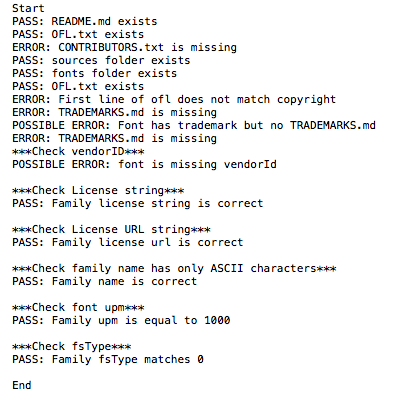
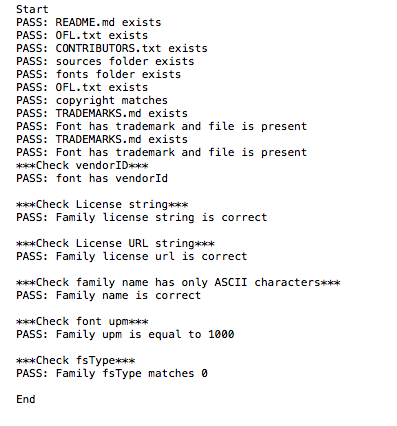
UpgradingExistingRepositories: Improved instructions, images added

Changed region(s): [[0.0302, 0.0, 0.937, 0.9595]]

diff --git a/UpgradingExistingRepositories.md b/UpgradingExistingRepositories.md
@@ -6,8 +6,9 @@ Updating repositories to the same standard has to be done on a case by case basi
 
 It's worth studying these before you begin.
 
-Older Font repositories vary greatly in quality. It is also very difficult to automate the upgrade process. There are too many variables to take into consideration. Fortunately, we have written some GlyphsApp scripts to check the most important/tedious parts. The repository can be found here.
+Older Font repositories vary greatly in quality, therefore it's very difficult to automate the upate process. There are too many variables to take into consideration. We have written some GlyphsApp scripts to check the most important/tedious parts. The scripts are currently a work in progress, they're being updated frequently. You can find them [here](https://github.com/m4rc1e/mf-glyphs-scripts). Once installed, you should get the following drop downs.
 
+![alt tag](UpgradingExistingRepositories-mf-glyph-scripts.png)
 
 ## Finding sources.
 Locating sources is the most crucial step. Without decent sources, more effort will be required. The following approaches below are listed in priority:
@@ -20,10 +21,10 @@ Locating sources is the most crucial step. Without decent sources, more effort w
 The last option should be used as a last resort only.
 
 ### Other considerations to keep in mind:
-- Do the version numbers match the family which is downloadable from [Google Fonts?](https://fonts.google.com)
-    - An [md5 checksum](https://www.youtube.com/watch?v=dzdom0Objq4) comparison between the Google Font binary ttfs and your discovered repos ttfs will check if the files are identical.
+- Do the version numbers match the family which is downloadable from [Google Fonts](https://fonts.google.com)?
+- An [md5 checksum](https://www.youtube.com/watch?v=dzdom0Objq4) comparison between the Google Font binary ttfs and your discovered repos ttfs will check if the files are identical.*
 - If they don't match, is the repository ahead of the fonts available on Google Fonts?
-    - This means the repository you discovered could be a work in progress. You must decide whether it is best to work on these or rollback/find a previous version.
+- This means the repository you discovered could be a work in progress. You must decide whether it is best to work on these or rollback/find a previous version.*
 
 
 ## High level overview of Upgrading a repository
@@ -31,64 +32,64 @@ The last option should be used as a last resort only.
 - Reorganise repo into the following folder heirachy (example [Maven Pro](https://github.com/m4rc1e/Maven-Pro)):
 
 ```
-    ├── AUTHORS.txt *
-    ├── CONTRIBUTORS.txt *
-    ├── OFL.txt *
-    ├── README.md *
-    ├── fonts
-    │   ├── MavenPro-Black.ttf
-    │   ├── MavenPro-Bold.ttf
-    │   ├── MavenPro-Medium.ttf
-    │   └── MavenPro-Regular.ttf
-    ├── old *
-    │   └── version-1.000 *
-    │       ├── DESCRIPTION.en_us.html
-    │       ├── METADATA.json
-    │       ├── MavenPro-Black.ttf
-    │       ├── MavenPro-Bold.ttf
-    │       ├── MavenPro-Medium.ttf
-    │       ├── MavenPro-Regular.ttf
-    │       ├── OFL.txt
-    │       └── src
-    │           ├── METADATA_comments.txt
-    │           ├── MavenPro-Black-VTT.ttf
-    │           ├── MavenPro-Black.glyphs
-    │           ├── MavenPro-Black.otf
-    │           ├── MavenPro-Black.vfb
-    │           ├── MavenPro-Bold-VTT.ttf
-    │           ├── MavenPro-Bold.glyphs
-    │           ├── MavenPro-Bold.otf
-    │           ├── MavenPro-Bold.vfb
-    │           ├── MavenPro-Medium-VTT.ttf
-    │           ├── MavenPro-Medium.glyphs
-    │           ├── MavenPro-Medium.otf
-    │           ├── MavenPro-Medium.vfb
-    │           ├── MavenPro-Regular-VTT.ttf
-    │           ├── MavenPro-Regular.glyphs
-    │           ├── MavenPro-Regular.otf
-    │           ├── MavenPro-Regular.vfb
-    │           ├── VERSIONS.txt
-    │           └── fontsquirrel_generator_config.txt
-    └── sources *
-        ├── MavenPro.glyphs *
-        └── build
-            └── instances.yml
+├── AUTHORS.txt 
+├── CONTRIBUTORS.txt 
+├── OFL.txt 
+├── README.md 
+├── fonts
+│   ├── MavenPro-Black.ttf
+│   ├── MavenPro-Bold.ttf
+│   ├── MavenPro-Medium.ttf
+│   └── MavenPro-Regular.ttf
+├── old 
+│   └── version-1.000 
+│   ├── DESCRIPTION.en_us.html
+│   ├── METADATA.json
+│   ├── MavenPro-Black.ttf
+│   ├── MavenPro-Bold.ttf
+│   ├── MavenPro-Medium.ttf
+│   ├── MavenPro-Regular.ttf
+│   ├── OFL.txt
+│   └── src
+│   ├── METADATA_comments.txt
+│   ├── MavenPro-Black-VTT.ttf
+│   ├── MavenPro-Black.glyphs
+│   ├── MavenPro-Black.otf
+│   ├── MavenPro-Black.vfb
+│   ├── MavenPro-Bold-VTT.ttf
+│   ├── MavenPro-Bold.glyphs
+│   ├── MavenPro-Bold.otf
+│   ├── MavenPro-Bold.vfb
+│   ├── MavenPro-Medium-VTT.ttf
+│   ├── MavenPro-Medium.glyphs
+│   ├── MavenPro-Medium.otf
+│   ├── MavenPro-Medium.vfb
+│   ├── MavenPro-Regular-VTT.ttf
+│   ├── MavenPro-Regular.glyphs
+│   ├── MavenPro-Regular.otf
+│   ├── MavenPro-Regular.vfb
+│   ├── VERSIONS.txt
+│   └── fontsquirrel_generator_config.txt
+└── sources 
+├── MavenPro.glyphs 
+└── build
+└── instances.yml
 ```
 
-- The 'old' folder should contain the original files from the repo you are working on. They should be subfoldered with the sources version number.
-- Every file/folder with an asterisk is essential. Every should should be lowercase only.
-- Source folder should have 1 .glyphs file for Roman weights and 1 for Italics. Condensed, Expanded weights should also have their own .glyphs file as well.
+- The **old** folder should contain the original files from the repo you are working on. They should be subfoldered with the sources version number.
+- Every file/folder with an asterisk is essential. Every folder should should be lowercase only.
+- **Source** folder should have 1 .glyphs file for Roman weights and 1 for Italics. Condensed, Expanded weights should also have their own .glyphs file as well.
 - Incrememnt the .glyphs file version number by += 1.000. eg v2.1000 -> v3.1000
-- Implement everything from [ProjectChecklist.md](https://github.com/googlefonts/gf-docs/blob/master/ProjectChecklist.md)
-- A GlyphsApp script exists to [test the above checklist steps](https://github.com/m4rc1e/mf-glyphs-scripts/blob/master/Google%20Fonts/test_gf_spec.py).
+- Implement everything from **[ProjectChecklist.md]**(https://github.com/googlefonts/gf-docs/blob/master/ProjectChecklist.md)
+- To test your repo matches the steps mentioned in **PrjectChecklist.md**, run the script **Test repo matches gf-structure**. ![alt tag](UpgradingExistingRepositories-mf-glyph-scripts-test-gf-structure.png)
 - Implement everything which is not design intensive from the [Cleanup Checklist](https://docs.google.com/spreadsheets/d/1vFNVR1lf14S1cthPQ59Mav5uZCnWw8_nS3ehKwueUz0/edit#gid=1988585029)
-    - MM compatiblity, anchors, kerning can take several days to implement. These should be fixed by the designer if there is enough time.
+*- MM compatiblity, anchors, kerning can take several days to implement. These should be fixed by the designer if there is enough time.*
 - Check [github for issues](https://github.com/google/fonts/issues) on font family and fix them. Again, some issues involving design or extensions will take too long to implement.
-- Check and fix vertical metrics. Khaled proposed a [schema](https://groups.google.com/d/msg/googlefonts-discuss/W4PHxnLk3JY/MpyLLY4jAwAJ), we use this for these repos. A [GlyphsApp script](https://github.com/m4rc1e/mf-glyphs-scripts/blob/master/Google%20Fonts/test_khaled_metrics.py) exists to check if it fulfils his spec.
+- Check and fix vertical metrics. Khaled proposed a [schema](https://groups.google.com/d/msg/googlefonts-discuss/W4PHxnLk3JY/MpyLLY4jAwAJ). We use this schema for older repos. Run the script **Test vertical metrics match Khaled's approach**
 - Push repo to your github account
 - Send repo link to designer to work on. Link should be included in your daily work log on the [Google Fonts Group Discussion board](https://groups.google.com/forum/#!forum/googlefonts-discuss).
 - Designer should send you back a pull request when finished. You should merge it back into your repo.
-- If you originally forked the project from a Gtihu repo. It will be nice to send them a PR of the upgraded project, with a note explaining the changes you've made as well as the designers. Since the upgrades are quite significant the original authors usually accept the PR. By getting the original author to merge our changes, we have consolidated all forks back into the original repo.
+- If you originally forked the project from a Github repo. Ssend the author a PR of the upgraded project, with a note explaining the changes you've made as well as the designers changes. Since the upgrades are quite significant, the author usually accept the PR. By getting the original author to merge our changes, we have consolidated all forks back into the original repo.
 
 
 ## Case Study: Step by step log of Upgrading Cabin
@@ -97,8 +98,8 @@ by Marc Foley
 Below is typically how I approach upgrading a repository so it is ready for designers to work on. The final repo can be found [here](https://github.com/m4rc1e/Cabin)
 
 ### Retrieve sources
-- Luckily, the project already exists on [github](https://github.com/impallari/Cabin)
-- I fork the project to my own [github account](https://github.com/m4rc1e/Cabin)
+- Luckily the project already exists on [github](https://github.com/impallari/Cabin)
+- I create a fork the project to my own [github account](https://github.com/m4rc1e/Cabin)
 - I clone my fork to my local system
 
 ### Tidyup
@@ -108,117 +109,129 @@ commit 609126c3a11cf5cddc243c86349b63db8a799b0c
 Author: Marc Foley <m.foley.88@gmail.com>
 Date:   Tue Aug 23 11:26:05 2016 +0200
 
-    gitignore: Added, ignore glyphsapp autosaved files
+*gitignore: Added, ignore glyphsapp autosaved files*
 
 commit 74e49f5b9674ec94d67d277262a355afe75d0a1b
 Author: Marc Foley <m.foley.88@gmail.com>
 Date:   Tue Aug 23 11:26:48 2016 +0200
 
-    old: Moved old v1.005 sources into old folder. Version number was discovered by opening ttf binary in fontlab. Ttf binaries can also be opened in Glyphsapp.
+*old: Moved old v1.005 sources into old folder. Version number was discovered by opening ttf binary in fontlab. Ttf binaries can also be opened in Glyphsapp.*
 
 commit e7047e0fed51a3efc92cd0c90efacab7aa99f49e
 Author: Marc Foley <m.foley.88@gmail.com>
 Date:   Tue Aug 23 11:28:22 2016 +0200
 
-    txt files: Readded mandatory txt files to top level of directory. These will need further updating to reflect the new state of the project
+*txt files: Readded mandatory txt files to top level of directory. These will need further updating to reflect the new state of the project*
 
 commit d025ffb4aee5f390b3a35b5ef90107d035c449f5
 Author: Marc Foley <m.foley.88@gmail.com>
 Date:   Tue Aug 23 11:35:34 2016 +0200
 
-    Generated .glyphs files from the extremes of MM .vfb file, using this script in [FL](https://github.com/schriftgestalt/Glyphs-Scripts/blob/master/Glyphs%20Export.py). '_' in file name to denote it is a temporary file. We will delete these later, once we have them combined into 1 glyphs file'
+*Generated .glyphs files from the extremes of MM .vfb file, using this script in [FL](https://github.com/schriftgestalt/Glyphs-Scripts/blob/master/Glyphs%20Export.py). '_' in file name to denote it is a temporary file. We will delete these later, once we have them combined into 1 glyphs file'*
 
 commit 1129934409ff4deec6798c1c6eadf7aec9b85b8c
 Author: Marc Foley <m.foley.88@gmail.com>
 Date:   Tue Aug 23 11:38:11 2016 +0200
 
-    Cabin: Both temporary glyphs files have been combined into 1 master .glyphs file. Temp files also deleted
+*Cabin: Both temporary glyphs files have been combined into 1 master .glyphs file. Temp files also deleted*
+![alt tag](UpgradingExistingRepositories-combined-masters.png)
 
 commit 3c51ee43104cd77a89077dbce28d8e2142e0be9a
 Author: Marc Foley <m.foley.88@gmail.com>
 Date:   Tue Aug 23 11:53:58 2016 +0200
 
-    Cabin.glyphs: The script 'Test repo matches gf-checklist structure' was run. The script returned there were errors in the font file, fsType, copyright... These errors have been fixed in this commit. I still need to fix errors in the txt files'
+*Cabin.glyphs: The script **Test repo matches gf-checklist structure** was run. The script returned there were errors in the font file, fsType, copyright... These errors have been fixed in this commit. I still need to fix errors in the txt files. We will proceed to run the script then fix any errors reported in an interative manner, until the script reports no errors.*
+![alt tag](UpgradingExistingRepositories-report1.png)
 
 commit c1ec7cfd2d4ccd0b6307e42178bcc1628c252cbc
 Author: Marc Foley <m.foley.88@gmail.com>
 Date:   Tue Aug 23 11:57:12 2016 +0200
 
-    CONTRIBUTORS: added, Test repo matches gf-checklist reported this file was missing. The contributors were found by looking in the fonts meta data
+*CONTRIBUTORS: added, Test repo matches gf-checklist reported this file was missing. The contributors were found by looking in the fonts meta data*
 
 commit 5b304ebfe7452c176b521ac846a0323549c2ff7c
 Author: Marc Foley <m.foley.88@gmail.com>
 Date:   Tue Aug 23 12:01:21 2016 +0200
 
-    OFL.txt | Cabin.glyphs: Updated first line of OFL.txt and .glyphs file copyright field. These need to match according to the checklist spec. This error was reported in the 'Test repo match gf-checklist spec' script
+*OFL.txt | Cabin.glyphs: Updated first line of OFL.txt and .glyphs file copyright field*
 
 commit 761f256a126b1ec17034bc4fe55e95f8de25138e
 Author: Marc Foley <m.foley.88@gmail.com>
 Date:   Tue Aug 23 12:07:13 2016 +0200
 
-    Cabin.glyphs: Added vendorID. I had to find this by looking at a [Libre Franklin](https://github.com/impallari/Libre-Franklin) which was also made by the same author. This error was reported from previous script. Everytime we fix an error which was reported by the script we should rerun it and continue fixing errors until everything passes
+*Cabin.glyphs: Added vendorID. I had to find this by looking at a [Libre Franklin](https://github.com/impallari/Libre-Franklin) which was also made by the same author. We're getting closer ;)*
 
 commit 29924c852849544afa442363b08f601dfa302bc1
 Author: Marc Foley <m.foley.88@gmail.com>
 Date:   Tue Aug 23 12:19:49 2016 +0200
 
-    TRADEMARKS.md: added, Script reported this file was missing. Text for this file came from the trademarks field in the font metadata. I am skeptical if this is correct so I will include an issue for it on the repo. I have now successfully made all the checks pass for the script 'Test repo structure matches gf-checklist structure'. We still need to check the vertical metrics, MM compatibility and see if we need to complete some steps from the other cleanup checklist
+*TRADEMARKS.md: added, Script reported this file was missing. Text for this file came from the trademarks field in the font metadata. I am skeptical if this is correct so I will include an issue for it on the repo. I have now successfully made all the checks pass for the script*
+![alt tag](UpgradingExistingRepositories-report2.png)
+
+*We still need to check the vertical metrics, MM compatibility and see if we need to complete some steps from the other cleanup checklist*
 
 commit 6a8c37d788aa1aaa60a515bb4cad86e061008d25
 Author: Marc Foley <m.foley.88@gmail.com>
 Date:   Tue Aug 23 12:21:20 2016 +0200
 
-    Cabin.glyphs: removed panose and glyph order family values. I removed te panose because the panose should be unique for each weight. This field will be included in each instance later. The glyph order was removed because Glyphsapp has its own order function
+*Cabin.glyphs: removed panose and glyph order family values. I removed te panose because the panose should be unique for each weight. This field will be included in each instance later. The glyph order was removed because Glyphsapp has its own order function*
 
 commit ff16905147edf22d7326b17670229b9bebc3216e
 Author: Marc Foley <m.foley.88@gmail.com>
 Date:   Tue Aug 23 12:28:13 2016 +0200
 
-    Cabin.glyphs: Both masters now have weight values. The weight values come from the vertical stem width of the 'H'. We need these values so we can generate instances. In the next step, we'll add the instances
+*Cabin.glyphs: Both masters now have weight values. The weight values come from the vertical stem width of the 'H'. We need these values so we can generate instances. In the next step, we'll add the instances*
+![alt tag](UpgradingExistingRepositories-measure-h.png)
+![alt tag](UpgradingExistingRepositories-stem-value.png)
 
 commit b673471802ef13c92ec6e34f72c9e0f622c478bc
 Author: Marc Foley <m.foley.88@gmail.com>
 Date:   Tue Aug 23 12:34:53 2016 +0200
 
-    Cabin.glyphs: instances added. To get the correct weight for each instance. We need to measure the 'H' for each weight from the old fonts. The names of each instance have to match this [document](https://docs.google.com/spreadsheets/d/1ckHigO7kRxbm9ZGVQwJ6QJG_HjV_l_IRWJ_xeWnTSBg/edit#gid=0).
+*Cabin.glyphs: instances added. To get the correct weight for each instance. We need to measure the 'H' for each weight from the old fonts. The names of each instance have to match this [document](https://docs.google.com/spreadsheets/d/1ckHigO7kRxbm9ZGVQwJ6QJG_HjV_l_IRWJ_xeWnTSBg/edit#gid=0).*
+![alt tag](UpgradingExistingRepositories-instances-added.png)
 
 commit 852064c9e3d259c541137ee54dcb2311d7122c0e
 Author: Marc Foley <m.foley.88@gmail.com>
 Date:   Tue Aug 23 12:40:00 2016 +0200
 
-    Cabin.glyphs: Added vertical metrics to each instance. The script 'Test vertical metrics match Khaled's approach' was used in order to check they are correct. For this font it was very easy. Unfortunately most people do not understand how the three sets of vertical metrics work very well. Refer to [Kalapi's work log on the Google Fonts Group](https://groups.google.com/d/msg/googlefonts-discuss/W4PHxnLk3JY/Uvxm1qj6AgAJ) for an indepth discussion on how it works. It is worth reading all posts on this.
+*Cabin.glyphs: Added vertical metrics to each instance. The script 'Test vertical metrics match Khaled's approach' was used in order to check they are correct. For this font it was very easy. Unfortunately most people do not understand how the three sets of vertical metrics work very well. Refer to [Kalapi's work log on the Google Fonts Group](https://groups.google.com/d/msg/googlefonts-discuss/W4PHxnLk3JY/Uvxm1qj6AgAJ) for an indepth discussion on how it works. It is worth reading all posts on this.*
+![alt tag](UpgradingExistingRepositories-metrics-instances)
+Each instance and master should have the same Vertical Metrics values!
 
 commit 1dca9fef83430dcdab23bebf2f121414b8e0414a
 Author: Marc Foley <m.foley.88@gmail.com>
 Date:   Tue Aug 23 12:41:18 2016 +0200
 
-    Cabin.glyphs: ran update glyph info. This should rename glyphs according to Glyphsapp internal naming scheme. We can now use Glyphsapp's auto OT features etc
+*Cabin.glyphs: ran update glyph info. This should rename glyphs according to Glyphsapp internal naming scheme. We can now use Glyphsapp's auto OT features etc*
 
 commit 973d1c108f8bc8f0cecffef23c718cffd5c99c61
 Author: Marc Foley <m.foley.88@gmail.com>
 Date:   Tue Aug 23 12:46:26 2016 +0200
 
-    Cabin.glyphs: Added auto OT features and reintroduced smcp feature. Glyphsapp allows us to use auto OT features. The original sources only included smcp and kern. We now have ordn, subs, sups, frac etc
+*Cabin.glyphs: Added auto OT features and reintroduced smcp feature. Glyphsapp allows us to use auto OT features. The original sources only included smcp and kern. We now have ordn, subs, sups, frac etc*
 
 commit cc5111be221a989b11427ff21fc1e943289c541a
 Author: Marc Foley <m.foley.88@gmail.com>
 Date:   Tue Aug 23 12:49:42 2016 +0200
 
-    Cabin.glyphs: added 'http://' to meta data fields which need urls. This was reported with the Preflight Fonts script
+*Cabin.glyphs: added 'http://' to meta data fields which need urls. This was reported with the Preflight Fonts script*
+![alt tag](UpgradingExistingRepositories-font-preflight-test.png)
 
 commit de2e655e90353f9bf46aae2777e2d06eebfb4328
 Author: Marc Foley <m.foley.88@gmail.com>
 Date:   Tue Aug 23 12:56:19 2016 +0200
 
-    Cabin.glyphs: Fixed all errors reported in Preflight font script.
-    
-    We now have a clean repo, 1 master .glyphs file with all masters and instances, correct vertical metrics, Better OT features. Luckily the original font was to a very very high standard. Most fonts are not this easy to work on.
-    
-    I will need to repeat all the steps we did on the fonts for the Italics and Condensed files which existed in the old repo. I will also need to generate some tests fonts and run them through font bakery. I leave the font bakery step till the designers have finished working on the repo.
+*Cabin.glyphs: Fixed all errors reported in Preflight font script.*
+![alt tag](UpgradingExistingRepositories-font-preflight-test2.png)
+
+*We now have a clean repo, 1 master .glyphs file with all masters and instances, correct vertical metrics, Better OT features. Luckily the original font was very good quality. Most fonts are not this easy to work on.*
+
+*I will need to repeat all the steps we did on the fonts for the Italics and Condensed files which existed in the old repo. I will also need to generate some tests fonts and run them through font bakery. I leave the font bakery step till the designers have finished working on the repo.*
 
 commit ccc9bc75cd87f879120911ddb7afcf4609d4f739
 Author: Marc Foley <m.foley.88@gmail.com>
 Date:   Tue Aug 23 12:57:11 2016 +0200
 
-    Cabin.glyphs: increased version number from 1.005 to 2.005
+*Cabin.glyphs: increased version number from 1.005 to 2.005*
 
